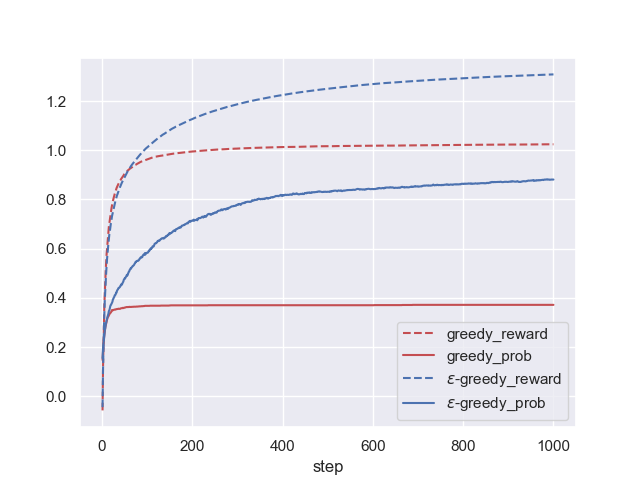
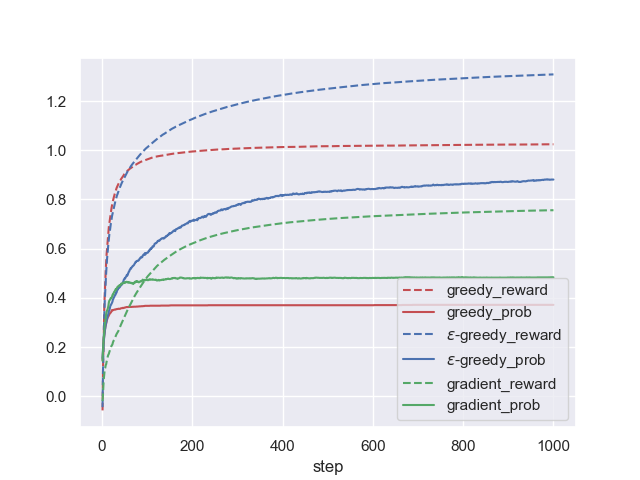
Add gradient based RL results

diff --git a/ex01_n_armed_bandit/imgs/data_plot.py b/ex01_n_armed_bandit/imgs/data_plot.py
@@ -21,9 +21,17 @@ greedy = np.genfromtxt("./egreed.dat", dtype=(np.int32, np.float, np.float))
 idx = [t[0] for t in greedy]
 reward = [t[1] for t in greedy]
 prob = [t[2] for t in greedy]
-
 plt.plot(idx, reward, color='b', ls="--", label="$\epsilon$-greedy_reward")
 plt.plot(idx, prob, color='b', ls="-", label="$\epsilon$-greedy_prob")
+
+
+greedy = np.genfromtxt("./grad.dat", dtype=(np.int32, np.float, np.float))
+idx = [t[0] for t in greedy]
+reward = [t[1] for t in greedy]
+prob = [t[2] for t in greedy]
+plt.plot(idx, reward, color='g', ls="--", label="gradient_reward")
+plt.plot(idx, prob, color='g', ls="-", label="gradient_prob")
+
 plt.legend()
 plt.xlabel("step")
 plt.savefig("result.png")

diff --git a/ex01_n_armed_bandit/main.cpp b/ex01_n_armed_bandit/main.cpp
@@ -17,5 +17,7 @@ int main(int argc, char** argv) {
     p->simulate(1000);
     std::unique_ptr<Policy> q(new EGreedyPolicy(2000, 10));
     q->simulate(1000);
+    std::unique_ptr<Policy> r(new GradientPolicy(2000, 10));
+    r->simulate(1000);
     return 0;
 }
